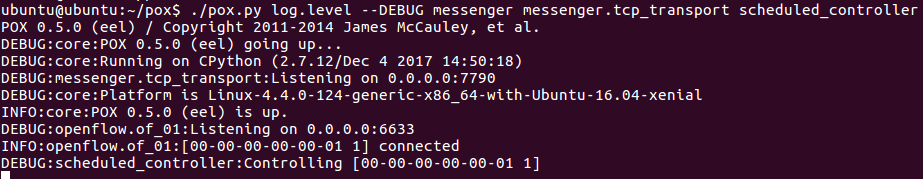
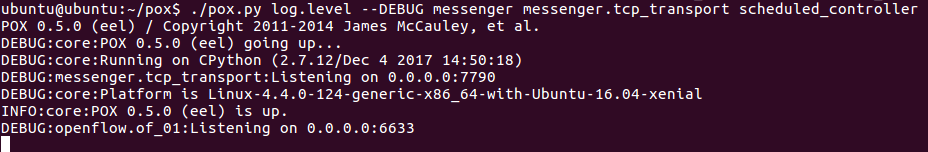
updated docu

Changed region(s): [[0.0, 0.0, 1.0, 0.9737]]

diff --git a/README.md b/README.md
@@ -1,30 +1,73 @@
 # DTN\_simulator
 
-Simulator: Simulate a Disruptive tolerant network with docker containers
-Needs: 
+Simulate Disruptive tolerant networks with docker containers
+
+Requirements:
   * Containernet: https://containernet.github.io/
   * Pox: https://github.com/noxrepo/pox.git
 
 Installation:
-After installation, this repo should go $POX\_DIR/ext
+After installing the requirements, download this repo under $POX/ext
 
-# Usage:
+# How to simulate a DTN network:
 
-Start a topology with containernet:
-* sudo mn --topo single,3 --mac --switch ovsk --controller remote
+A simulation uses container net to create the network topology, pox to as
+SDN controller and a simple application to set and delete connection in
+runtime based on a schedule.
+By now a description of mac to ports is also needed, but it should later on
+disappear, since this information can be requested from OVSwitch by SDN controller.
+The visualisation APP is red, because it is not yet implemented.
+The goal is to allow the network visualization in runtime based on events
+triggered by the SDN controller.
 
-The output should look like this:
-![Starting containers](./pictures/starting_containernet.png "Starting containernet")
+# Example:
 
+* Starts the controller using the messenger plugin
 
-Starts the controller using the messenger plugin
-  $ cd $POX\_DIR/
-  ~/pox$ ./pox.py log.level --DEBUG messenger messenger.tcp\_transport scheduled\_controller
+```
+$ cd $POXDIR/
+pox$ ./pox.py messenger messenger.tcp\_transport scheduled\_controller
+```
 
 A successful start looks as follows:
 ![Starting pox](./pictures/starting_pox.png "Starting pox")
 
-Finally, feed switches information to the controller, create the schedule based on a contact plan
- ubuntu@ubuntu:~/pox/ext$ python test\_client.py 
- 
+obs: You can use the option DEBUG, you can ignore the output:
+"WARNING:scheduled_controller:Dropping packet".
+Currently we are dropping everything but the communication between the nodes we
+explicit allow.
+
+Running for debug:
+```
+$ cd $POXDIR/
+pox$ ./pox.py log.level --DEBUG messenger messenger.tcp\_transport scheduled\_controller
+```
+
+* In another window, run containernet (so far just flat topology is supported)
+
+```
+sudo mn --arp --topo single,3 --mac --switch ovsk --controller remote
+```
+obs.: --arp and --mac are required.
+
+The output should look like this:
+![Starting containers](./pictures/starting_containernet.png "Starting containernet")
+
+Notice also that in the first window the pox status should be "connected".
+
+So far we have the containers, switch and controller running.
+
+# The APP
+
+The application needs as input mac2ports mapping and the schedule.
+There is a simple example on $POXDIR/ext/infos/cmds_test.txt
+Based on this file the app is able to tell the controller which flows it should
+enable/disable and the right time to it.
+
+Running the app
+
+```
+~/pox/ext$ python scheduler.py
+```
+
 An example of a text file for feeding the controller and schedule is provided on "simulator/infos/cmds\_test.txt"
